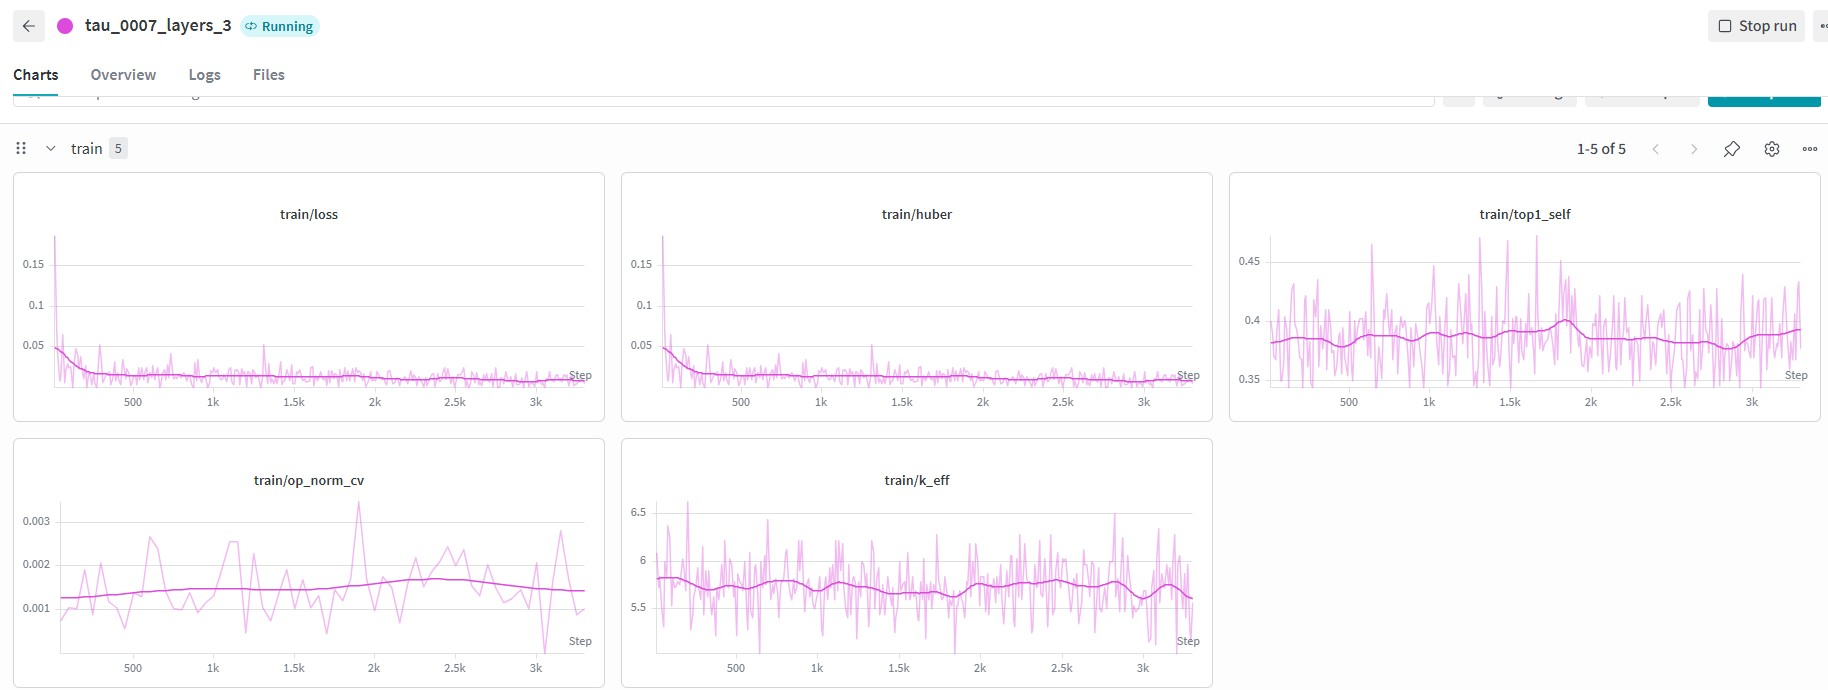
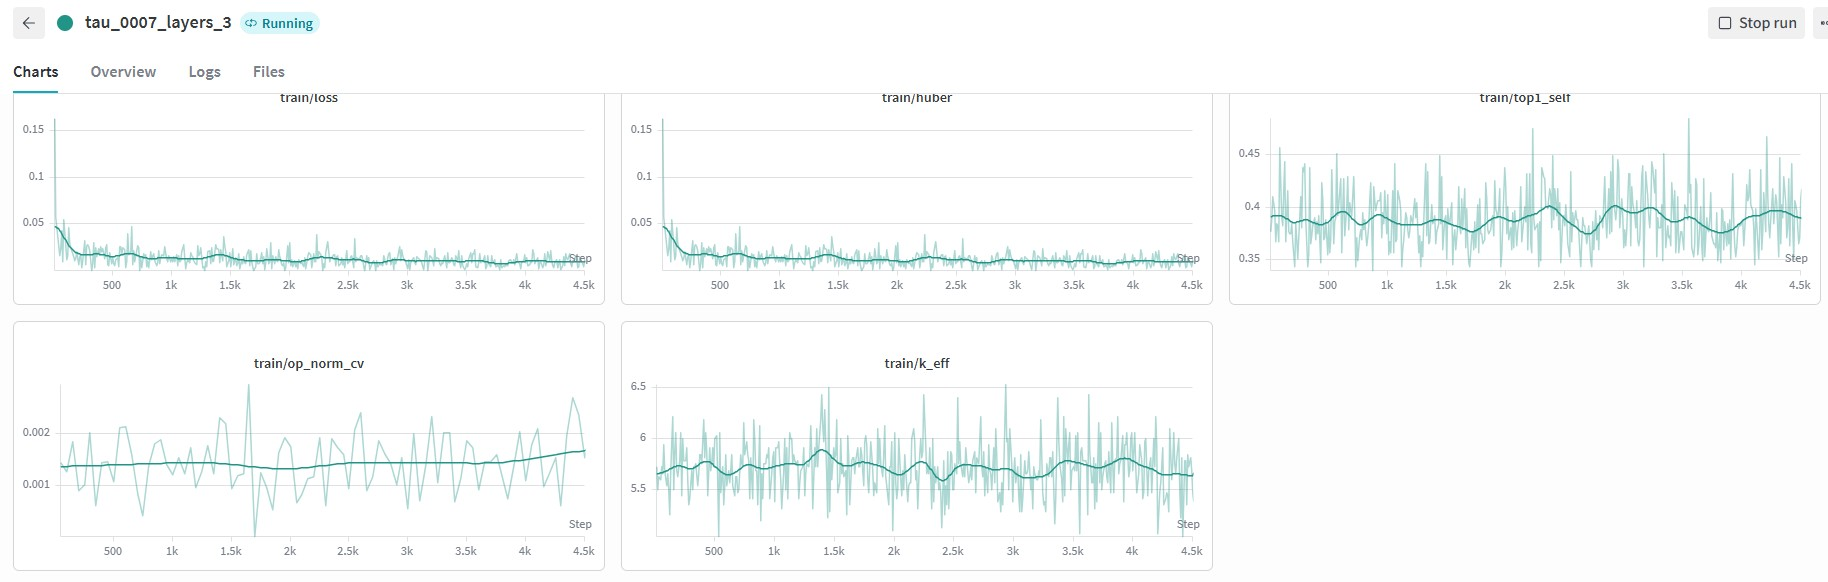
Fix build_dictionaries: hook on InputProjector to capture mu instead of h

diff --git a/experiments/phase 3/test_phase3.py b/experiments/phase 3/test_phase3.py
@@ -116,24 +116,47 @@ def main():
         for cycle in range(args.cycles + 1):
             if cycle == 0:
                 print("\n--- Cycle 0: Прямой поиск X0 в D_X0 (Sanity словаря) ---")
-                vec_to_search = X0[0, -1, :].unsqueeze(0)
+                
+                # Check BOTH h and mu
+                h_proj = input_projector.proj(qwen_emb)
+                vec_to_search_mu = X0[0, -1, :].unsqueeze(0)
+                vec_to_search_h = h_proj[0, -1, :].unsqueeze(0)
+                
+                target_tid = input_ids[-1]
+                target_dx0 = D_X0[target_tid].unsqueeze(0)
+                
+                print(f"  [DEBUG] target_tid={target_tid}")
+                print(f"  [DEBUG] norm(mu)={vec_to_search_mu.norm().item():.2f}, norm(h)={vec_to_search_h.norm().item():.2f}, norm(D_X0)={target_dx0.norm().item():.2f}")
+                print(f"  [DEBUG] cos(mu, D_X0)={F.cosine_similarity(vec_to_search_mu, target_dx0).item():.4f}")
+                print(f"  [DEBUG] cos(h, D_X0)={F.cosine_similarity(vec_to_search_h, target_dx0).item():.4f}")
+                
+                vec_to_search = vec_to_search_h # Use h for search since D_X0 contains h
             else:
                 print(f"\n--- Cycle {cycle}: Прогон через DUS -> OP ---")
-                # Внимание: DUS ожидает input_ids только для position_embeddings, 
-                # но мы можем передать inputs_embeds напрямую.
-                # ModernBERT требует attention_mask.
-                mask = torch.ones((1, current_X.size(1)), device=device)
                 
-                # Прогоняем через DUS
-                outputs = student(inputs_embeds=current_X, attention_mask=mask)
-                L40 = outputs.last_hidden_state
+                if cycle == 1:
+                    # На первом прогоне через DUS используем X0 (z)
+                    dus_out = student.model(inputs_embeds=X0, attention_mask=attention_mask)
+                    X40 = dus_out.last_hidden_state  # [1, seq_len, 1024]
+                    
+                    print(f"  [DEBUG Cycle 1] X40 norm = {X40[0, -1, :].norm().item():.2f}")
+                    
+                else:
+                    # На последующих прогонах используем вывод OP
+                    dus_out = student.model(inputs_embeds=current_X, attention_mask=attention_mask)
+                    X40 = dus_out.last_hidden_state
                 
                 # Проецируем обратно в X0
-                current_X = output_projector(L40)
+                OP_out = output_projector(X40)  # [1, seq_len, 1024]
+                current_X = OP_out
+                vec_to_search = OP_out[0, -1, :].unsqueeze(0)
                 
-                vec_to_search = current_X[0, -1, :].unsqueeze(0)
+                print(f"  [DEBUG Cycle {cycle}] OP_out norm = {vec_to_search.norm().item():.2f}")
+                target_tid = input_ids[-1]
+                target_dx0 = D_X0[target_tid].unsqueeze(0)
+                print(f"  [DEBUG Cycle {cycle}] cos(OP_out, D_X0[{target_tid}]) = {F.cosine_similarity(vec_to_search, target_dx0).item():.4f}")
                 
-            # Ищем соседей для последнего токена
+            # Поиск в словаре D_X0 для последнего токена
             neighbors = get_nearest_neighbors(vec_to_search, D_X0, token_map, top_k=args.top_k)
             for rank, (tid, token_str, sim) in enumerate(neighbors, 1):
                 print(f"  [{rank}] '{token_str}' \t(id={tid}, cos={sim:.3f})")

diff --git a/experiments/phase 3/build_dictionaries.py b/experiments/phase 3/build_dictionaries.py
@@ -254,9 +254,11 @@ def build_dictionaries_with_qwen_emb(
     captured_mu = {}
 
     def _hook_h(module, inp, output):
-        captured_mu["x0_sphere"] = output.detach().float()  # [B, seq_len, 1024]
+        # output is (z, mu, logvar) from InputProjector
+        _, mu, _ = output
+        captured_mu["x0_sphere"] = mu.detach().float()  # [B, seq_len, 1024]
 
-    hook_handle = input_projector.proj.register_forward_hook(_hook_h)
+    hook_handle = input_projector.register_forward_hook(_hook_h)
 
     student.eval()
     input_projector.eval()
